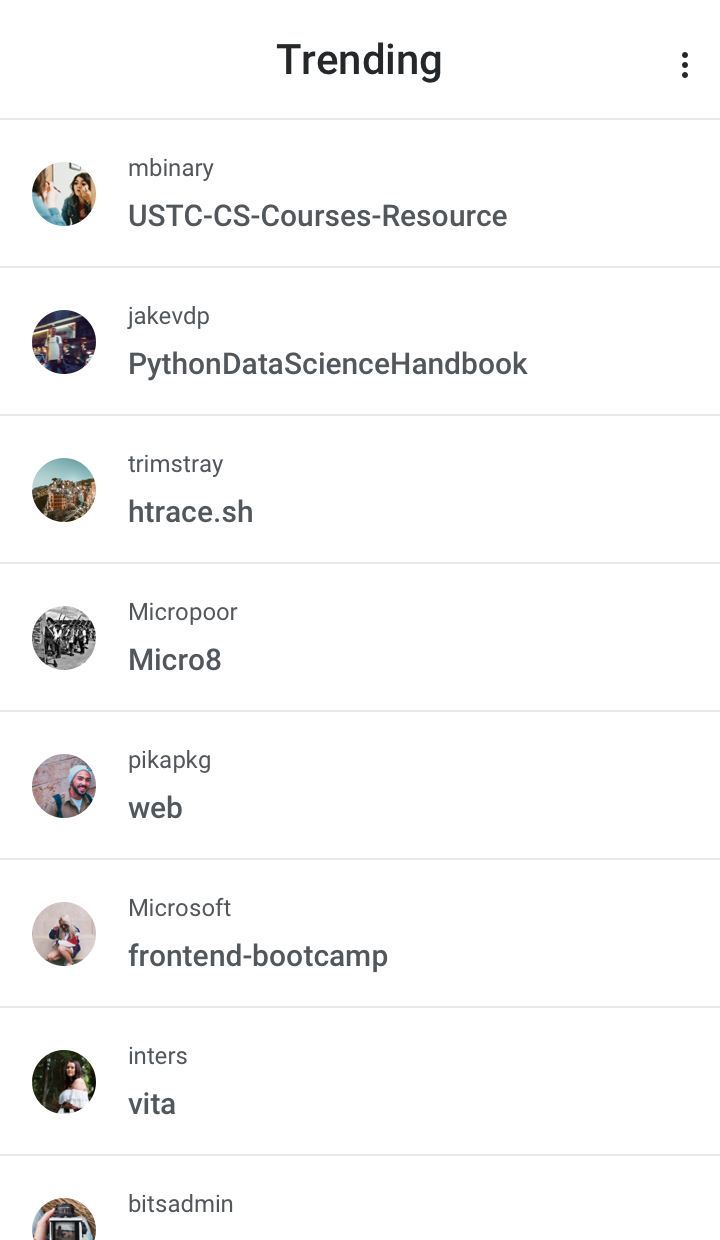
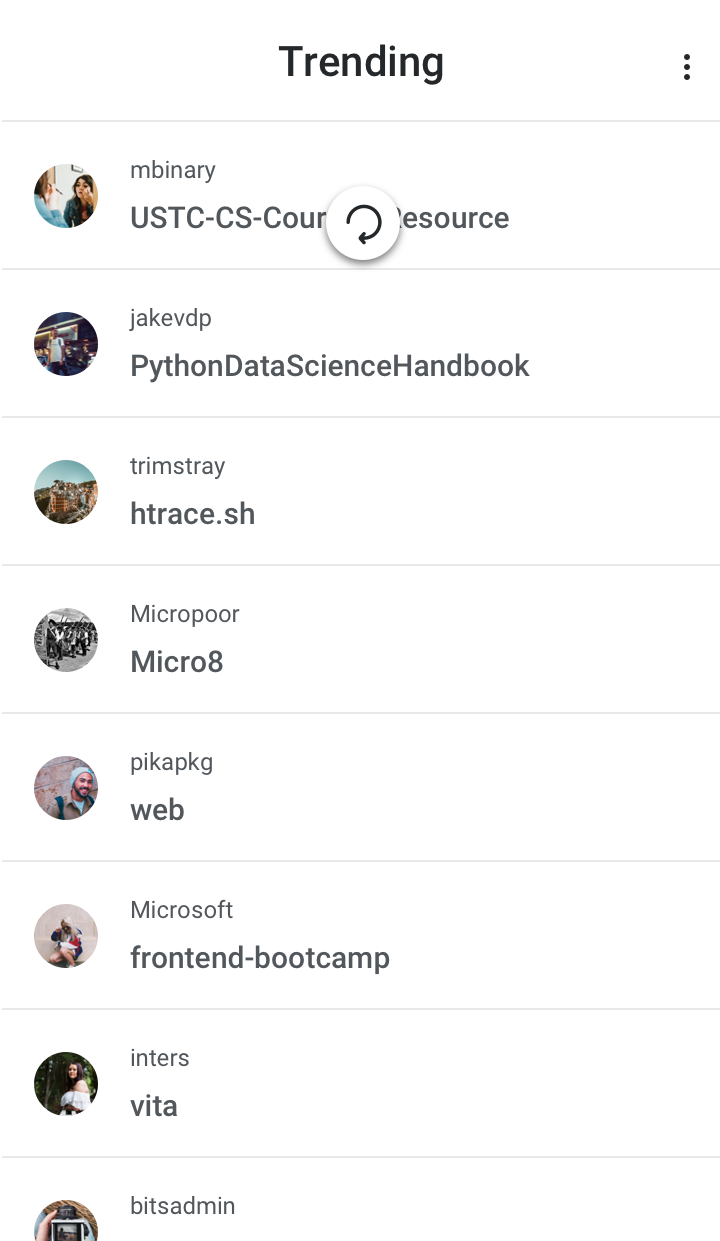
edit readme

diff --git a/app/src/main/java/com/elhady/trending/viewmodel/TrendingViewModel.java b/app/src/main/java/com/elhady/trending/viewmodel/TrendingViewModel.java
@@ -1,12 +1,12 @@
 package com.elhady.trending.viewmodel;
 
-import android.util.Log;
 
 import androidx.hilt.lifecycle.ViewModelInject;
 import androidx.lifecycle.MutableLiveData;
 import androidx.lifecycle.ViewModel;
 
 import com.elhady.trending.model.ItemModel;
+import com.elhady.trending.model.RepoModel;
 import com.elhady.trending.repository.Repository;
 import com.elhady.trending.util.Util;
 
@@ -49,8 +49,14 @@ public class TrendingViewModel extends ViewModel {
         disposable.add(repository.getTrending(map)
                 .subscribeOn(Schedulers.io())
                 .observeOn(AndroidSchedulers.mainThread())
-                .subscribe(result->reposList.setValue(result.getItems()),
-                        error-> Log.e(TAG, "getTrendingRepository: " + error.getMessage() ))
+                .map(RepoModel::getItems)
+                .subscribe(itemModels -> {
+                            if(itemModels !=null && !itemModels.isEmpty()){
+                                reposList.postValue(itemModels);
+                                error.postValue(false);
+                            }
+                        }, error -> this.error.postValue(true)
+                )
         );
     }
 

diff --git a/app/src/main/java/com/elhady/trending/ui/MainActivity.java b/app/src/main/java/com/elhady/trending/ui/MainActivity.java
@@ -65,8 +65,6 @@ public class MainActivity extends AppCompatActivity implements SwipeRefreshLayou
         viewModel = new ViewModelProvider(this).get(TrendingViewModel.class);
 
         initView();
-        observeData();
-        loadTrendingList();
         setUpRecyclerView();
     }
 
@@ -77,7 +75,7 @@ public class MainActivity extends AppCompatActivity implements SwipeRefreshLayou
         errorData();
 
         updateRefreshLayout(true);
-        displaySnackBar(false, "Trending Github");
+        displaySnackBar(false, "Loading...");
         loadTrendingList();
     }
 

diff --git a/README.md b/README.md
@@ -1,11 +1,77 @@
-# Trending
+# 🚀 Trending
 Github Trending 
 
-# Screen Shots
+## ✨ Demo 
 
-## screen1 <img src="photos/image1.png" width="300" >  secreen2 <img src="photos/image2.png" width="300" >
+<p align="center">
+  <img src="screen/demo.gif" width="360" height="640">
+</p>
 
-## screen3 <img src="photos/image3.png" width="300" >  screen4 <img src="photos/image4.png" width="300" >
+## ✨ screenshots
+| Loading | Pull to refresh |  Item Touch |
+|:-:|:-:|:-:|
+| ![Fist](screen/screen1.png?raw=true) | ![3](screen/screen2.png?raw=true) | ![3](screen/screen3.png?raw=true) |
+| Item Expanded | Menus |   Error State |
+| ![4](screen/screen4.png?raw=true) | ![5](screen/screen5.png?raw=true) | ![6](screen/screen6.png?raw=true) |
 
-## screen5 <img src="photos/image5.png" width="300" >
+## 🌟 Features
+*   The app should fetch the trending repositories from the provided public API and display it to the users.
+*   While the data is being fetched, the app should show a loading state [Shimmer animation] .
+*   If the app is not able to fetch the data, then it should show an error state to the user with an option to retry again.
+*   All the items in the list should be in their collapsed state by default and can be expanded on being tapped.
+*   Tapping any item will expand it to show more details and collapse any other expanded item Tapping the same item in expanded state should collapse it.
+*   The app should be able to handle configuration changes (like rotation)
+*   The app should give a pull-to-refresh option to the user to force fetch data from remote.
+*   MVVM with Android Architecture Components(DataBinding, LiveData, ViewModel)
+*   Handle network status and network failures
+*   Material design.
+
+#### App Packages
+* <b>network</b> - contains the api classes to make api calls to Github server, using Retrofit.
+* <b>repository</b> - contains the repository classes.
+* <b>di</b> - contains dependency injection classes, using Dagger2.
+* <b>ui</b> - contains classes needed to display Activity.
+* <b>util</b> - contains classes needed for activity redirection.
+
+
+### Installing
+Follow these steps if you want to get a local copy of the project on your machine.
+
+#### 1. Clone or fork the repository by running the command below
+```
+https://github.com/islamelhady/trending
+```
+
+
+## 🤝 How to Contribute
+1.  Fork it
+2.  Create your feature branch (git checkout -b my-new-feature)
+3.  Commit your changes (git commit -am 'Add some feature')
+4.  Push to the branch (git push origin my-new-feature)
+5.  Create new Pull Request
+
+## 📃 Libraries used
+*   Minimum SDK 19
+*   [AndroidX](https://developer.android.com/jetpack/androidx/) - Previously known as 'Android support Library'
+*   [Picasso](https://square.github.io/picasso/) - for loading and caching images
+*   [Retrofit 2](https://github.com/square/retrofit) - for API integration.
+*   [RxJava2](https://github.com/ReactiveX/RxJava) for implementing Observable pattern.
+*   [Dagger 2](https://google.github.io/dagger/) for dependency injection.
+*   [Gson](https://github.com/google/gson) - for serialization/deserialization Java Objects into JSON and back
+*   [OkHttp](https://github.com/square/okhttp) - for implementing interceptor, logging and mocking web server.
+*   [LiveData](https://developer.android.com/topic/libraries/architecture/livedata)
+*   [ViewModel](https://developer.android.com/topic/libraries/architecture/viewmodel)
+*   [DataBinding](https://developer.android.com/topic/libraries/data-binding/)
+*   [CircleImageView](https://github.com/hdodenhof/CircleImageView)
+
+
+## Authors
+
+* **Islam Elhady** - *LinkedIn* - [Islam Elhady](https://www.linkedin.com/in/islamelhady)
+
+```
+MIT License
+
+Copyright (c) 2020 Islam Elhady
+```
 
